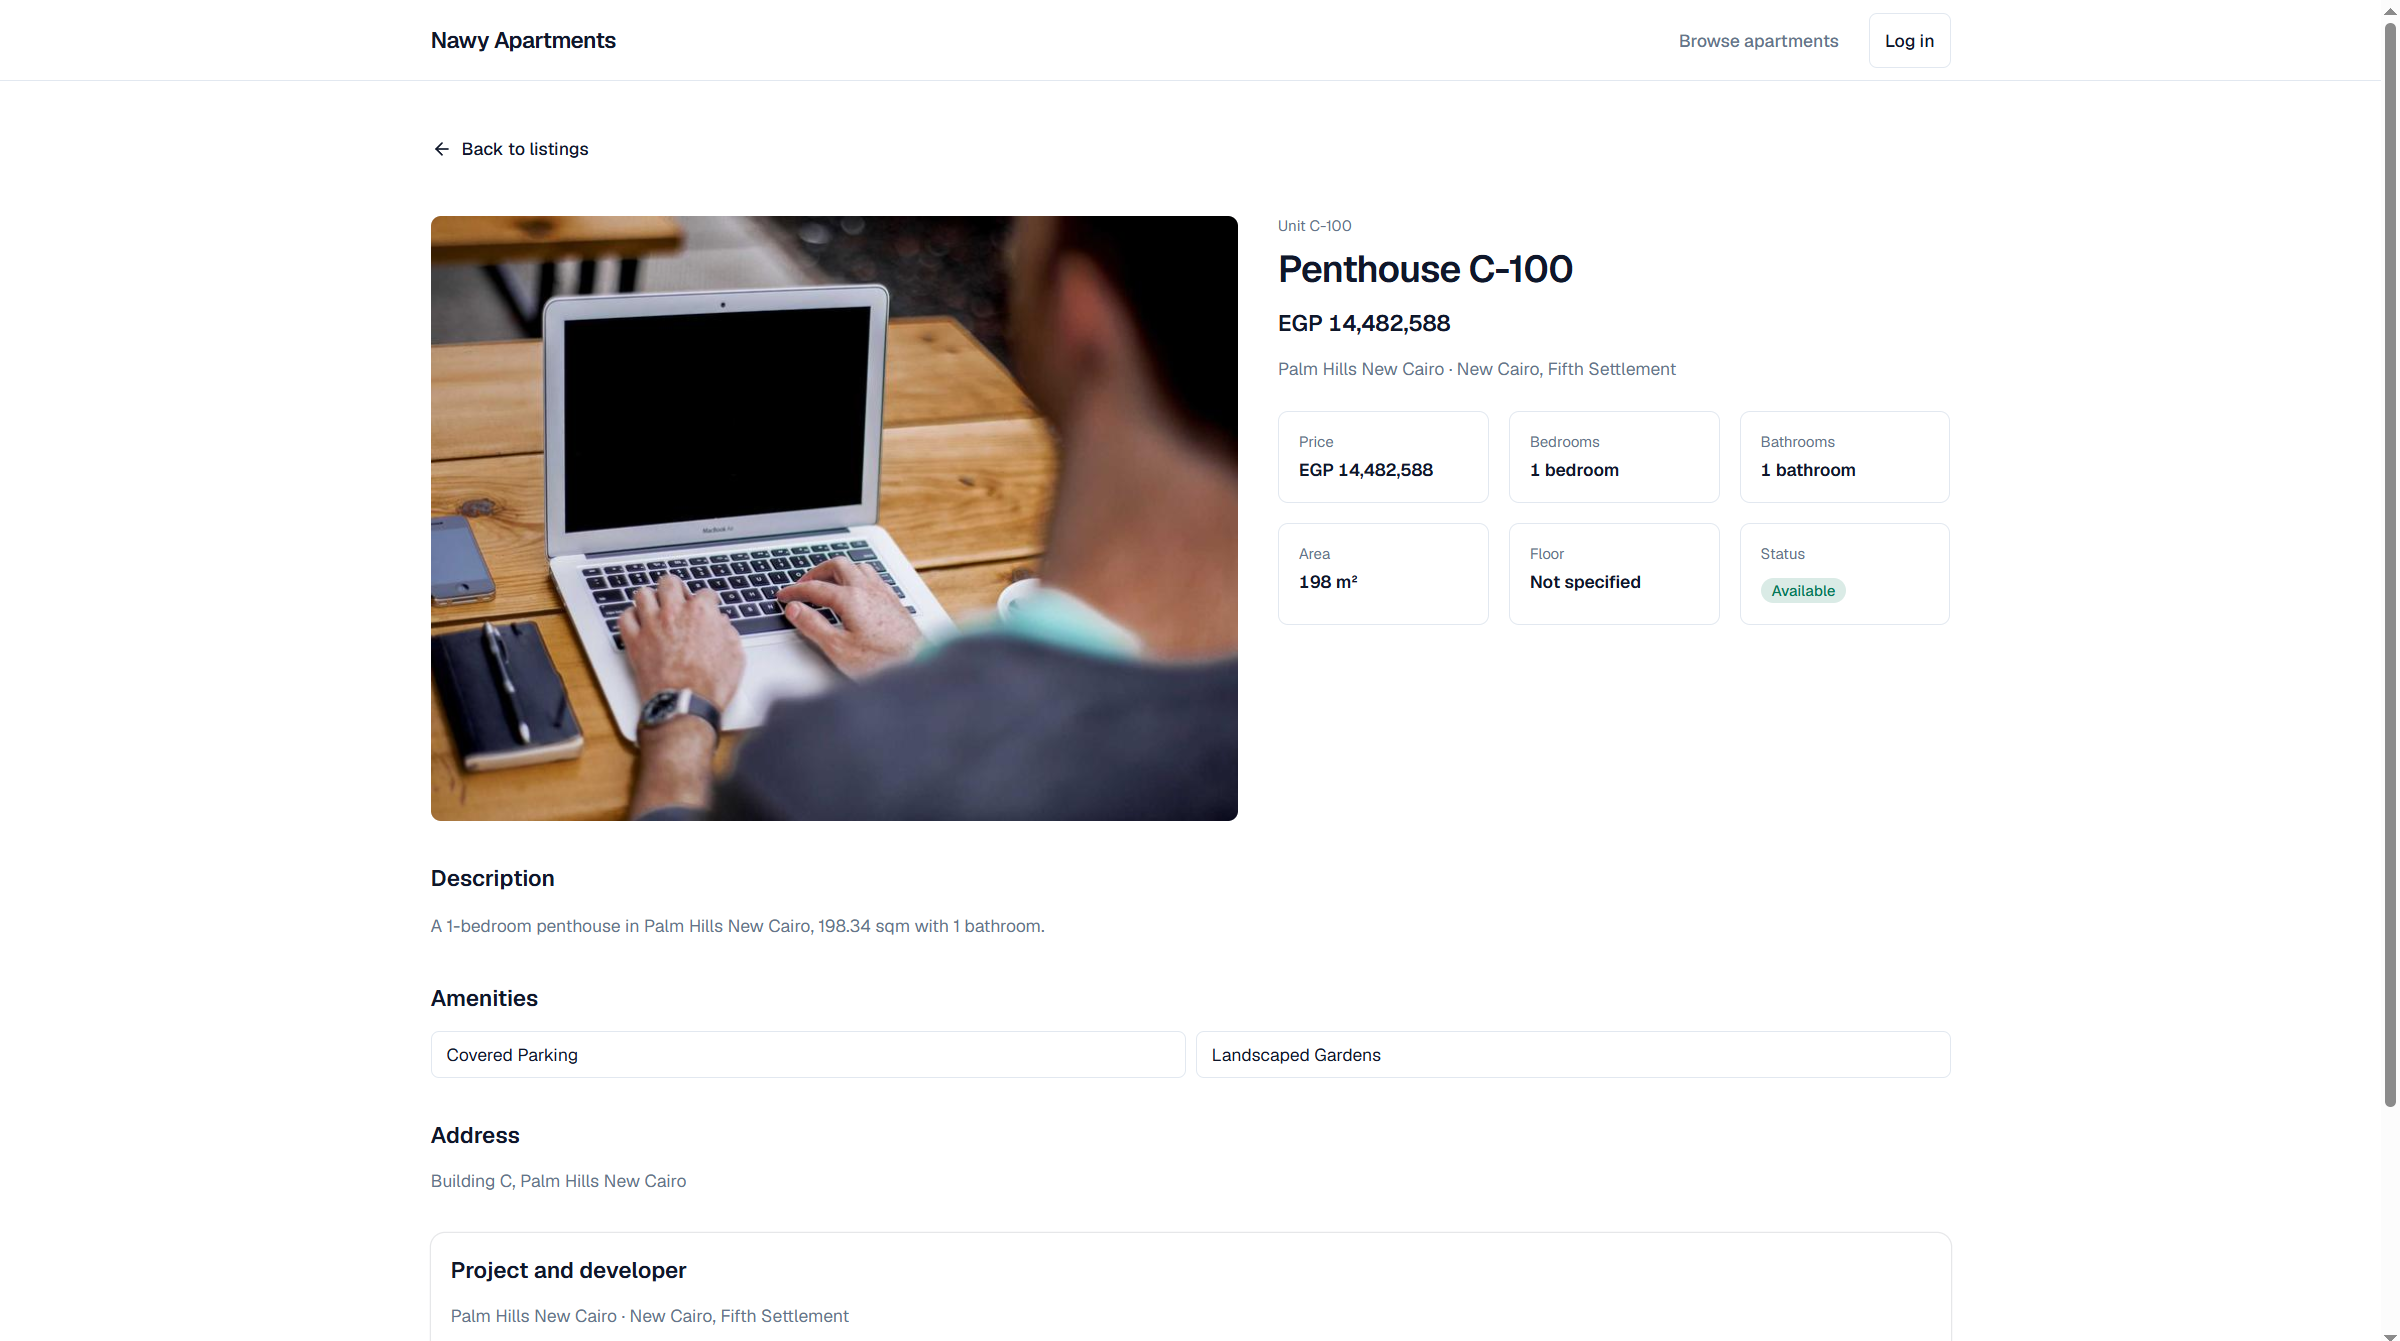
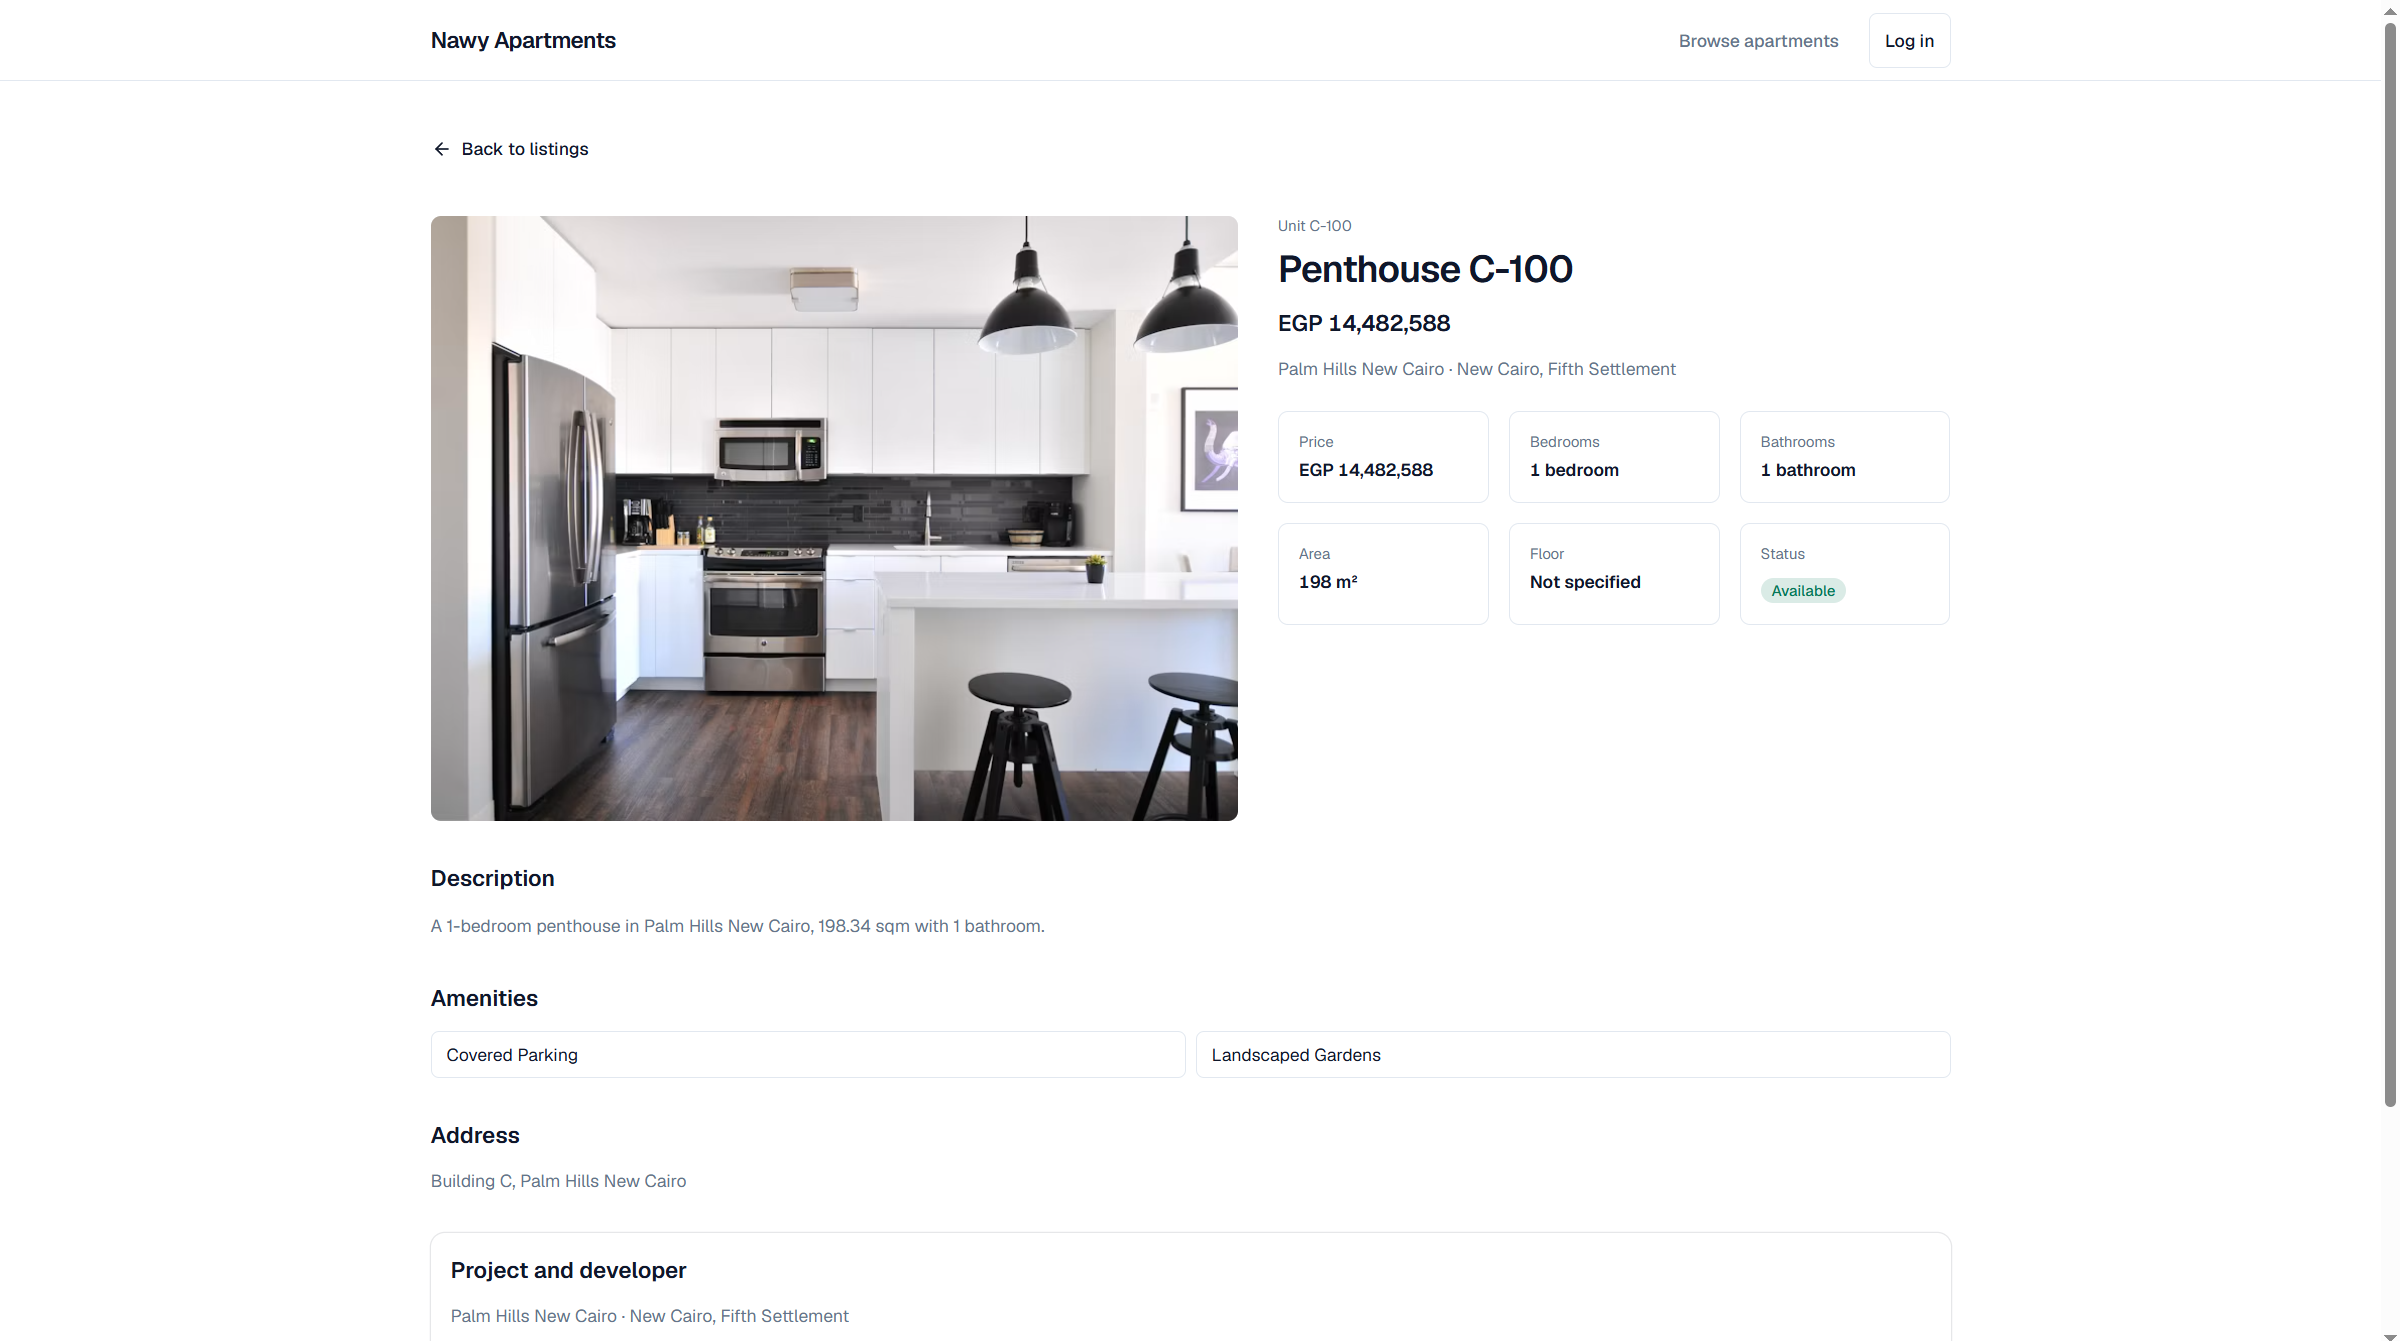
chore(docs) updating images and readme

Changed region(s): [[0.1562, 0.1529, 0.5312, 0.6115]]

diff --git a/apps/api/src/database/seeds/apartment-image-urls.ts b/apps/api/src/database/seeds/apartment-image-urls.ts
@@ -1,0 +1,128 @@
+type UnitType = 'Apartment' | 'Duplex' | 'Penthouse' | 'Studio';
+
+function unsplashPhoto(photoId: string, width: number, height: number): string {
+  return `https://images.unsplash.com/${photoId}?auto=format&fit=crop&w=${width}&h=${height}&q=80`;
+}
+
+// Every ID below was verified with an HTTP HEAD request (200) before inclusion.
+// Do not add photo IDs without checking — many common Unsplash slugs 404.
+
+const VERIFIED_APARTMENT_PHOTOS = {
+  livingRoomA: 'photo-1502672260266-1c1ef2d93688',
+  livingRoomB: 'photo-1560448204-e02f11c3d0e2',
+  livingRoomC: 'photo-1586023492125-27b2c045efd7',
+  livingRoomD: 'photo-1616486338812-3dadae4b4ace',
+  loftStudio: 'photo-1493809842364-78817add7ffb',
+  modernInteriorA: 'photo-1600607687939-ce8a6c25118c',
+  modernInteriorB: 'photo-1600607687920-4e2a09cf159d',
+  modernInteriorC: 'photo-1600566753086-00f18fb6b3ea',
+  modernInteriorD: 'photo-1631679706909-1844bbd07221',
+  kitchenA: 'photo-1484154218962-a197022b5858',
+  kitchenB: 'photo-1556912172-45b7abe8b7e1',
+  bedroomA: 'photo-1505693416388-ac5ce068fe85',
+  bedroomB: 'photo-1618221195710-dd6b41faaea6',
+  houseExteriorA: 'photo-1600585154340-be6161a56a0c',
+  houseExteriorB: 'photo-1600596542815-ffad4c1539a9',
+  houseExteriorC: 'photo-1570129477492-45c003edd2be',
+  houseExteriorD: 'photo-1600585154526-990dced4db0d',
+  luxuryHomeA: 'photo-1564013799919-ab600027ffc6',
+  luxuryHomeB: 'photo-1501183638710-841dd1904471',
+} as const;
+
+function photos(ids: readonly string[], width = 800, height = 600): string[] {
+  return ids.map((id) => unsplashPhoto(id, width, height));
+}
+
+const STUDIO_IMAGES = photos([
+  VERIFIED_APARTMENT_PHOTOS.loftStudio,
+  VERIFIED_APARTMENT_PHOTOS.livingRoomC,
+  VERIFIED_APARTMENT_PHOTOS.livingRoomD,
+  VERIFIED_APARTMENT_PHOTOS.modernInteriorA,
+]);
+
+const APARTMENT_IMAGES = photos([
+  VERIFIED_APARTMENT_PHOTOS.livingRoomA,
+  VERIFIED_APARTMENT_PHOTOS.livingRoomB,
+  VERIFIED_APARTMENT_PHOTOS.modernInteriorA,
+  VERIFIED_APARTMENT_PHOTOS.kitchenA,
+  VERIFIED_APARTMENT_PHOTOS.bedroomA,
+]);
+
+const DUPLEX_IMAGES = photos([
+  VERIFIED_APARTMENT_PHOTOS.houseExteriorA,
+  VERIFIED_APARTMENT_PHOTOS.houseExteriorB,
+  VERIFIED_APARTMENT_PHOTOS.kitchenB,
+  VERIFIED_APARTMENT_PHOTOS.bedroomB,
+  VERIFIED_APARTMENT_PHOTOS.modernInteriorB,
+]);
+
+const PENTHOUSE_IMAGES = photos([
+  VERIFIED_APARTMENT_PHOTOS.luxuryHomeA,
+  VERIFIED_APARTMENT_PHOTOS.luxuryHomeB,
+  VERIFIED_APARTMENT_PHOTOS.modernInteriorC,
+  VERIFIED_APARTMENT_PHOTOS.houseExteriorC,
+  VERIFIED_APARTMENT_PHOTOS.houseExteriorD,
+]);
+
+const SHARED_INTERIOR_IMAGES = photos([
+  VERIFIED_APARTMENT_PHOTOS.modernInteriorD,
+  VERIFIED_APARTMENT_PHOTOS.livingRoomC,
+  VERIFIED_APARTMENT_PHOTOS.kitchenA,
+]);
+
+export const APARTMENT_IMAGE_POOLS: Record<UnitType, readonly string[]> = {
+  Studio: [...STUDIO_IMAGES, ...SHARED_INTERIOR_IMAGES],
+  Apartment: [...APARTMENT_IMAGES, ...SHARED_INTERIOR_IMAGES],
+  Duplex: [...DUPLEX_IMAGES, ...SHARED_INTERIOR_IMAGES],
+  Penthouse: [...PENTHOUSE_IMAGES, ...SHARED_INTERIOR_IMAGES],
+};
+
+export function developerLogoUrl(photoId: string): string {
+  return unsplashPhoto(photoId, 200, 200);
+}
+
+// Verified building / residential exterior photos used as developer logo stand-ins.
+export const DEVELOPER_LOGO_PHOTOS = {
+  palmHills: 'photo-1545324418-cc1a3fa10c00',
+  sodic: 'photo-1518005020951-eccb494ad742',
+  mountainView: 'photo-1460317442991-0ec209397118',
+  emaarMisr: 'photo-1570129477492-45c003edd2be',
+  tatweerMisr: 'photo-1564013799919-ab600027ffc6',
+} as const;
+
+export function hashString(value: string): number {
+  let hash = 5381;
+  for (let i = 0; i < value.length; i += 1) {
+    hash = (hash * 33) ^ value.charCodeAt(i);
+  }
+  return hash >>> 0;
+}
+
+export function pickApartmentImageUrls(
+  rng: () => number,
+  unitType: UnitType,
+  seedPrefix: string,
+): string[] {
+  const count = Math.floor(rng() * 4); // 0-3 images, so some apartments have none (P8 fallback case)
+  const pool = APARTMENT_IMAGE_POOLS[unitType];
+  const selected: string[] = [];
+
+  for (let index = 0; index < count; index += 1) {
+    const offset = hashString(`${seedPrefix}-${index}`);
+    const primary = pool[offset % pool.length];
+    if (primary === undefined) {
+      throw new Error(`pickApartmentImageUrls: empty image pool for ${unitType}`);
+    }
+    let candidate = primary;
+    if (selected.includes(candidate)) {
+      const fallback = pool[(offset + index + 1) % pool.length];
+      if (fallback === undefined) {
+        throw new Error(`pickApartmentImageUrls: empty image pool for ${unitType}`);
+      }
+      candidate = fallback;
+    }
+    selected.push(candidate);
+  }
+
+  return selected;
+}

diff --git a/apps/api/src/database/seeds/generate-apartments.ts b/apps/api/src/database/seeds/generate-apartments.ts
@@ -1,5 +1,7 @@
 import { ApartmentStatus } from '@apartments/shared';
 
+import { hashString, pickApartmentImageUrls } from './apartment-image-urls';
+
 export interface ApartmentSeedInput {
   unitName: string;
   unitNumber: string;
@@ -38,16 +40,8 @@ const STATUS_CYCLE: ApartmentStatus[] = [
   ApartmentStatus.SOLD,
 ];
 
-const UNIT_TYPES = ['Apartment', 'Duplex', 'Penthouse', 'Studio'];
-
-// djb2, just to turn a project name into a stable numeric seed.
-function hashString(value: string): number {
-  let hash = 5381;
-  for (let i = 0; i < value.length; i += 1) {
-    hash = (hash * 33) ^ value.charCodeAt(i);
-  }
-  return hash >>> 0;
-}
+const UNIT_TYPES = ['Apartment', 'Duplex', 'Penthouse', 'Studio'] as const;
+type UnitType = (typeof UNIT_TYPES)[number];
 
 // mulberry32 — small, deterministic PRNG so re-running the seed produces
 // byte-identical apartments every time (required for idempotency; see
@@ -63,20 +57,12 @@ function mulberry32(seed: number): () => number {
   };
 }
 
-function pick<T>(rng: () => number, items: T[]): T {
+function pick<T>(rng: () => number, items: readonly T[]): T {
   const item = items[Math.floor(rng() * items.length)];
   if (item === undefined) {
     throw new Error('generate-apartments: pick() called with an empty array');
   }
   return item;
-}
-
-function pickImageUrls(rng: () => number, seedPrefix: string): string[] {
-  const count = Math.floor(rng() * 4); // 0-3 images, so some apartments have none (P8 fallback case)
-  return Array.from(
-    { length: count },
-    (_unused, index) => `https://picsum.photos/seed/${seedPrefix}-${index + 1}/800/600`,
-  );
 }
 
 export function generateApartmentsForProject(
@@ -125,7 +111,7 @@ export function generateApartmentsForProject(
       address: `Building ${buildingLetter}, ${projectName}`,
       status,
       amenities,
-      imageUrls: pickImageUrls(rng, seedSlug),
+      imageUrls: pickApartmentImageUrls(rng, unitType, seedSlug),
     });
   }
 

diff --git a/apps/api/src/database/seeds/data/developers.seed-data.ts b/apps/api/src/database/seeds/data/developers.seed-data.ts
@@ -1,3 +1,5 @@
+import { DEVELOPER_LOGO_PHOTOS, developerLogoUrl } from '../apartment-image-urls';
+
 export interface DeveloperSeedData {
   name: string;
   description: string;
@@ -10,30 +12,30 @@ export const developersSeedData: DeveloperSeedData[] = [
     name: 'Palm Hills Developments',
     description:
       'One of Egypt\u2019s largest real estate developers, known for large-scale integrated communities across Greater Cairo and the North Coast.',
-    logoUrl: 'https://picsum.photos/seed/palm-hills-logo/200/200',
+    logoUrl: developerLogoUrl(DEVELOPER_LOGO_PHOTOS.palmHills),
   },
   {
     name: 'SODIC',
     description:
       'Sixth of October Development & Investment Company, a pioneer of master-planned communities in West and East Cairo.',
-    logoUrl: 'https://picsum.photos/seed/sodic-logo/200/200',
+    logoUrl: developerLogoUrl(DEVELOPER_LOGO_PHOTOS.sodic),
   },
   {
     name: 'Mountain View',
     description:
       'Developer focused on resort-style residential compounds combining green landscaping with modern architecture.',
-    logoUrl: 'https://picsum.photos/seed/mountain-view-logo/200/200',
+    logoUrl: developerLogoUrl(DEVELOPER_LOGO_PHOTOS.mountainView),
   },
   {
     name: 'Emaar Misr',
     description:
       'The Egyptian arm of Emaar Properties, delivering large mixed-use communities in New Cairo and the North Coast.',
-    logoUrl: 'https://picsum.photos/seed/emaar-misr-logo/200/200',
+    logoUrl: developerLogoUrl(DEVELOPER_LOGO_PHOTOS.emaarMisr),
   },
   {
     name: 'Tatweer Misr',
     description:
       'Developer of fully integrated urban communities across Cairo and the Red Sea and North coasts.',
-    logoUrl: 'https://picsum.photos/seed/tatweer-misr-logo/200/200',
+    logoUrl: developerLogoUrl(DEVELOPER_LOGO_PHOTOS.tatweerMisr),
   },
 ];
